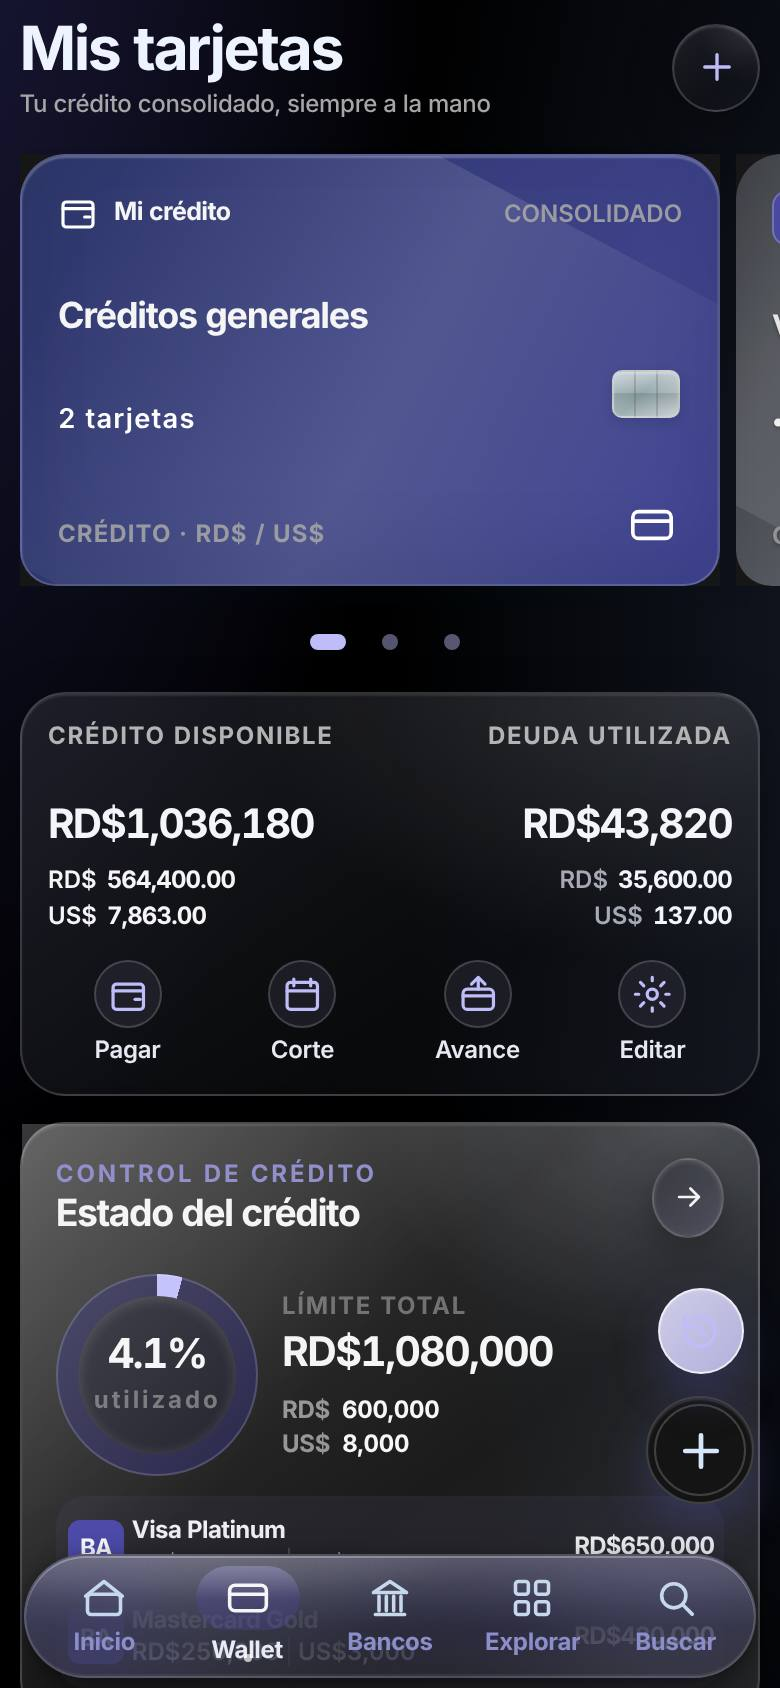
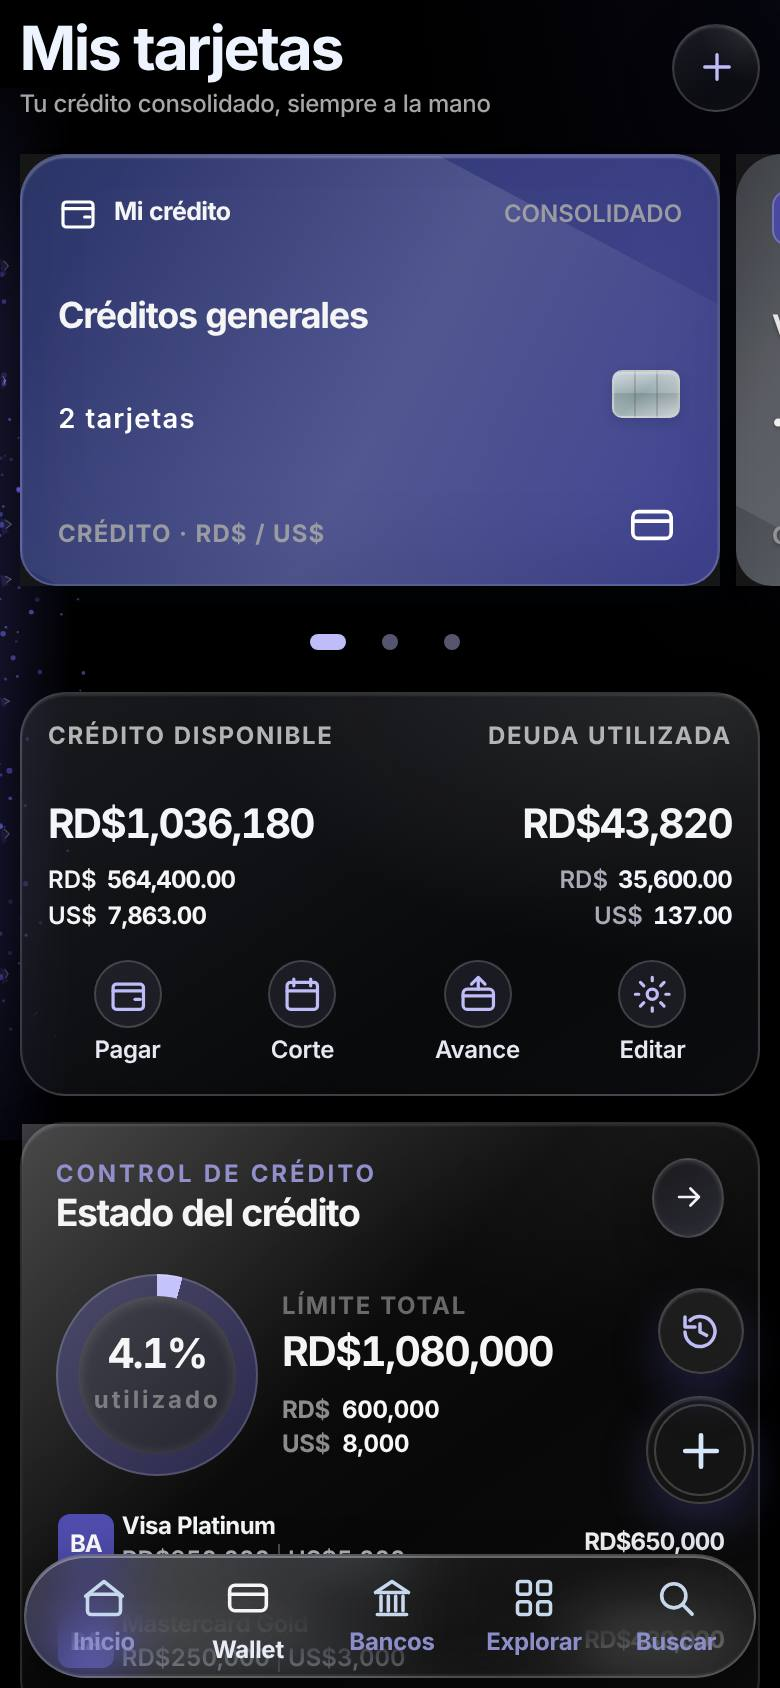
Wallet móvil: detalle por tarjeta del Estado del crédito sin fondo ni líneas, integrado en la tarjeta
Claude-Session: https://claude.ai/code/session_01AwzF8JXGCqasa7rHAy2PHn

diff --git a/src/wallet-glass.css b/src/wallet-glass.css
@@ -327,3 +327,10 @@ html body #app#app main.world-wallet #page#page .v371-return-note {font-size:12p
 /* Logos bancarios PNG sin fondo: en las listas de Wallet se muestran sobre la propia tarjeta, sin placa blanca */
 html body #app#app#app main.world-wallet #page#page .v1301-rank .v1301-bank .bank-photo-mark:has(img){background:transparent!important;box-shadow:none!important;border:0!important;border-radius:0!important}
 html body #app#app#app main.world-wallet #page#page .v1301-rank .v1301-bank .bank-photo-mark img{background:transparent!important;padding:0!important;border-radius:0!important}
+
+/* Estado del crédito · detalle por tarjeta: integrado en la tarjeta, sin fondo, sin bordes y sin líneas separadoras */
+@media (max-width:790px){
+ html body #app#app#app main.world-wallet #page#page .v1301-limit-breakdown .v1301-ranked{background:none!important;background-image:none!important;box-shadow:none!important;border:0!important;padding:0!important;gap:2px!important}
+ html body #app#app#app main.world-wallet #page#page .v1301-limit-breakdown .v1301-rank{background:none!important;background-image:none!important;box-shadow:none!important;border:0!important;border-bottom:0!important;border-radius:0!important;padding:8px 0!important}
+ html body #app#app#app main.world-wallet #page#page .v1301-limit-breakdown .v1301-rank-info>*{border:0!important}
+}

diff --git a/index.html b/index.html
@@ -36,7 +36,7 @@
 <link rel="stylesheet" href="./src/bancos-pc-glass.css?v=541&b=3" media="(min-width: 791px)"/>
 <link rel="stylesheet" href="./src/banks-mobile-legibility.css?v=41" media="(max-width: 790px)"/>
 <link rel="stylesheet" href="./src/banks-mobile-glass.css?v=8.1.1.1.1.1.1.1.1.1.1.112" media="(max-width: 790px)"/>
-<link rel="stylesheet" href="./src/wallet-glass.css?v=912"/>
+<link rel="stylesheet" href="./src/wallet-glass.css?v=913"/>
 <link rel="stylesheet" href="./src/wallet-reference-fidelity.css?v=81"/>
 <link rel="stylesheet" href="./src/wallet-mobile-approved.css?v=41" media="(max-width: 790px)"/>
 <link rel="stylesheet" href="./src/wallet-mobile-top.css?v=101.1.4" media="(max-width: 790px)"/>
